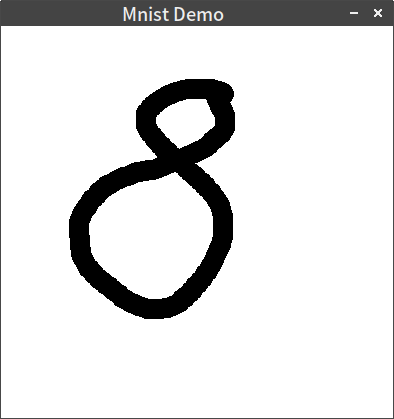
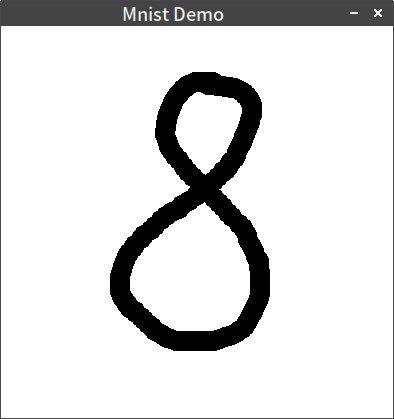
add screenshot

Changed region(s): [[0.1523, 0.1551, 0.6701, 0.7446], [0.3046, 0.4654, 0.7005, 0.8377]]

diff --git a/README.md b/README.md
@@ -15,33 +15,67 @@ drag to write a digit, press SPACE to recognize digit with neural network, and t
 ## Screenshots
 ![](https://raw.githubusercontent.com/AdamYuan/SimpleNN/master/screenshots/1.png)
 ```
-               .?????????.. 
-             .??@@@@@@@@@?. 
-            ?@@@@?....?@@?. 
-           .?@??.     .?@??.
-           .?@?.       ?@??.
-           .?@?..     .?@??.
-            .@@??....??@@?. 
-            .?@@@????@@@?.  
-            ..?@@@@@@??.    
-        ...???@@@@@@@?.     
-      .??@@@@@@@???@@@?.    
-    .??@@??....   ..?@@?.   
-   .?@@??..         .?@@?.  
-  .?@@?.             .?@@?  
- .?@@?.               .?@?. 
- .@@?.                 ?@??.
- ?@?.                  ?@??.
- ?@?.                  ?@?. 
- .@@?.                .?@?. 
+            .?????..        
+          .?@@@@@@@@@??.    
+         .?@??....???@@?.   
+        .?@@.       .?@??   
+        ?@??.       .?@??   
+        ?@?.        .@@?.   
+        ?@??.      .?@@.    
+        .?@@.     .?@@?.    
+         .?@??.  .?@@?.     
+          .?@@?.?@@@?.      
+           .?@@@@@?..       
+           .?@@@@@?.        
+          ?@@@@@@@@?.       
+       .?@@@?.. .??@?.      
+     .??@@?..    ..?@??.    
+    .?@@?.         .?@@.    
+   ?@@??            .?@?.   
+ .??@?.              .?@?.  
  .@@?.               .?@@.  
- .??@?.             .??@?.  
-  .?@@?.            .@@?.   
-   .??@@?.        .?@@?.    
-    ..?@@??..   ..?@@?.     
-      ..@@@@?????@@@?.      
-        ..??@@@@@??..       
-          ..?????..         
-recognize: 3
-nn output: 0.000000 0.000000 0.000000 0.629701 0.000000 0.000000 0.000000 0.000000 0.279446 0.000000 
+ ?@?.                 .@@?  
+ ?@?.                 .?@?  
+ ?@@?.                .@@.  
+ .??@?..             .?@@.  
+  .??@@?.           .?@??   
+    .?@@@?..    ...?@@@.    
+      .??@@@@@@@@@@@??.     
+        ..?????????..       
+                            
+recognize: 8
+nn output: 0.000000 0.000000 0.000000 0.000000 0.000000 0.000000 0.000000 0.000000 1.014501 0.000000 
+```
+![](https://raw.githubusercontent.com/AdamYuan/SimpleNN/master/screenshots/2.png)
+```
+                    .?      
+       ...         .?@.     
+       ???         .?@.     
+      .???         .?@.     
+      .???         .?@.     
+      .@?.         .?@.     
+      ?@?.         .?@.     
+     .?@.          .?@.     
+     ??@.          .?@.     
+    .@@?.          .?@? ... 
+    .@?.            ?@?.???.
+   .?@?            .?@@@@@?.
+   ?@?.          .?@@@@@?.  
+ .?@@.     ..???@@@@@@?.    
+ ?@@@....???????????@@?     
+.?@@@??@@@@???..   .?@?     
+?@@@@@???..         ?@?     
+                    ?@?     
+                   .?@?     
+                   .?@.     
+                   .?@.     
+                   .?@.     
+                   .?@.     
+                   .?@.     
+                   .?@.     
+                   .?@.     
+                   .??.     
+                    ..      
+recognize: 4
+nn output: 0.000000 0.000000 0.000000 0.000000 0.999000 0.000000 0.000000 0.000000 0.000000 0.000000 
 ```
